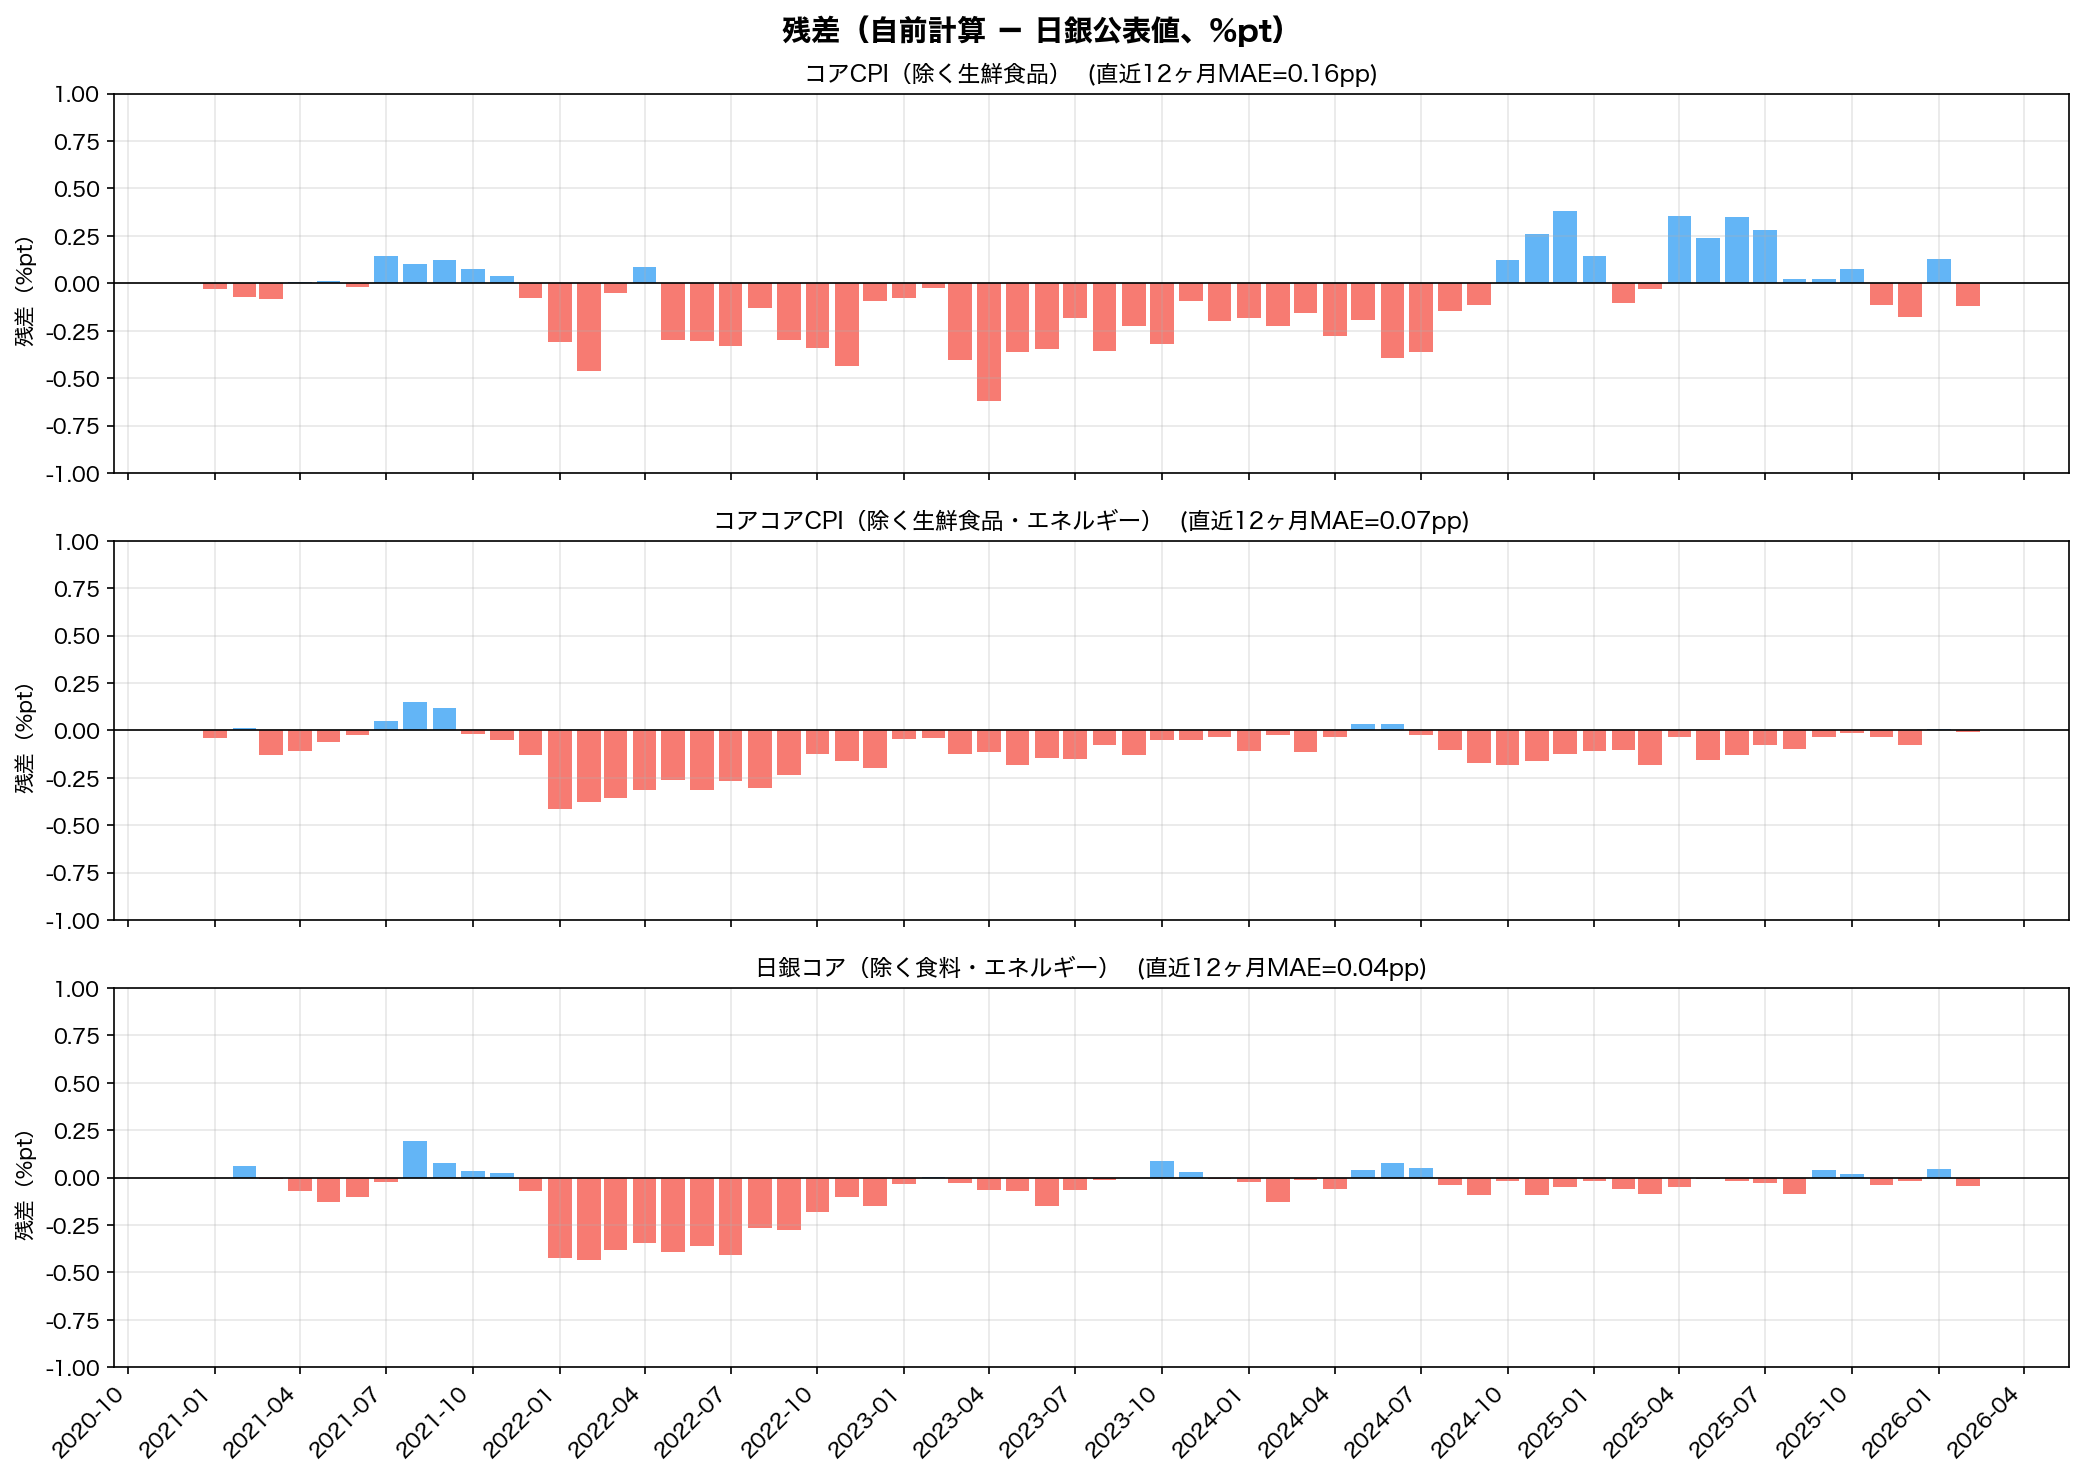
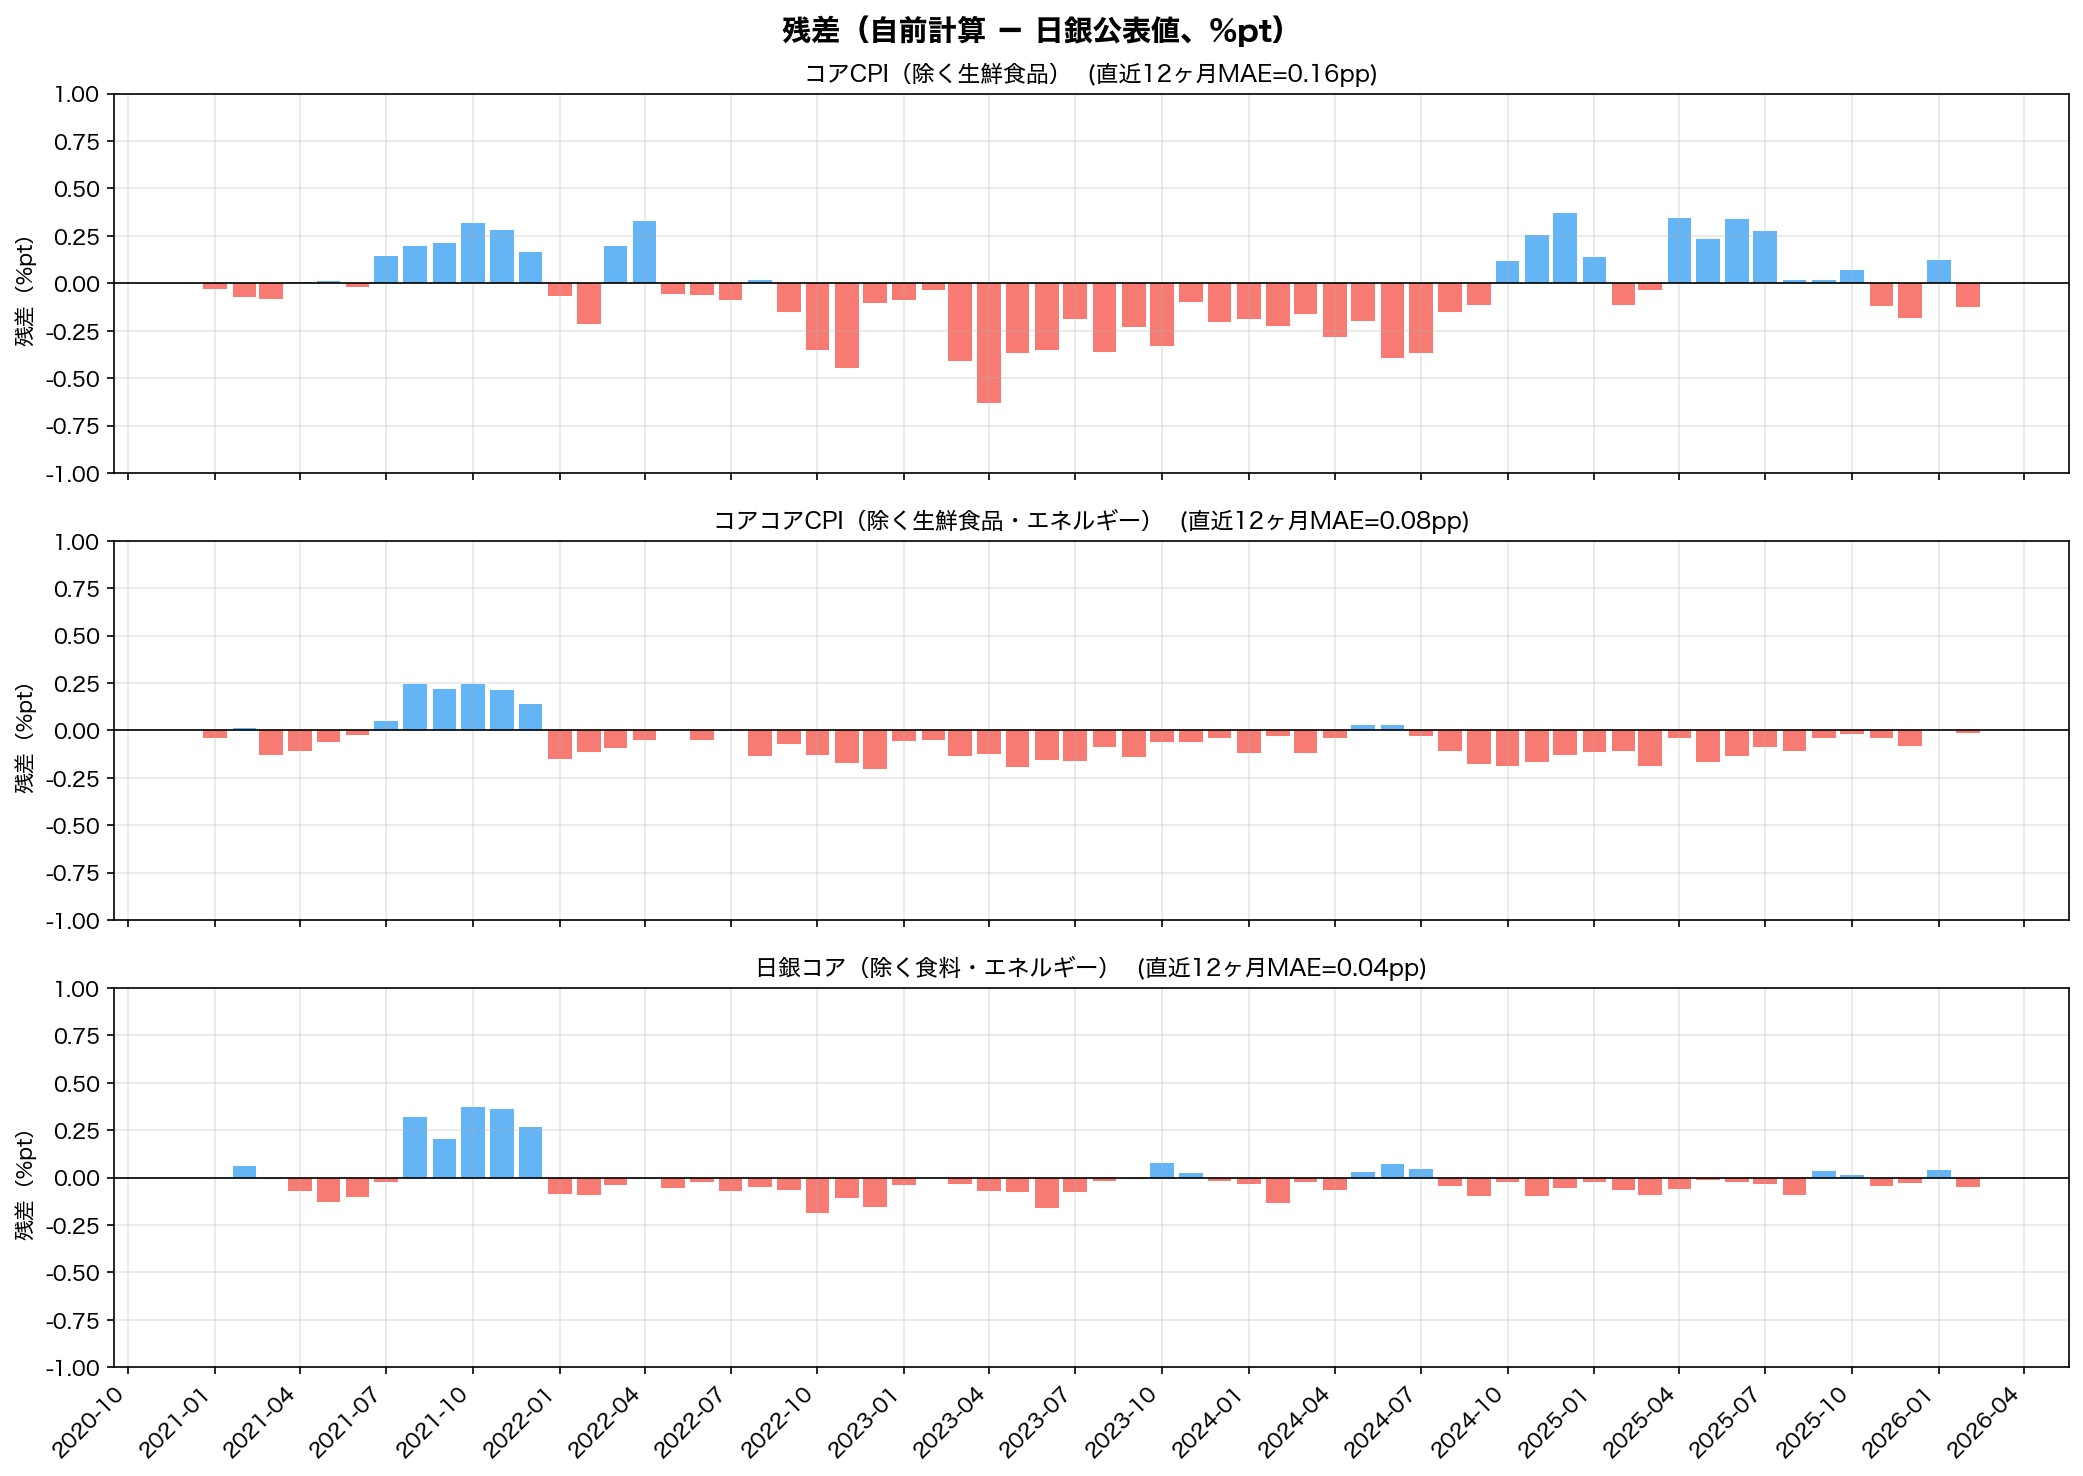
携帯通信料を年度保合+固定段差方式に戻す
60%反映方式は2021年改善/2022年悪化のトレードオフがあり、
全期MAEでは年度保合+固定段差が最良。
日銀は前年比ベースで寄与度差引の可能性があり、
指数水準ベースでの完全一致には構造的限界がある。

Changed region(s): [[0.1872, 0.748, 0.4057, 0.8726], [0.1872, 0.1558, 0.4057, 0.2493], [0.1872, 0.4675, 0.4057, 0.561]]

diff --git a/src/adjust_interpolation.py b/src/adjust_interpolation.py
@@ -22,35 +22,34 @@ import pandas as pd
 
 
 def adjust_mobile(cpi_index: pd.Series) -> pd.Series:
-    """携帯通信料の調整（保合＋60%反映＋固定段差方式）
+    """携帯通信料の調整（年度保合＋固定段差方式）
 
     1. 急落前（〜2021-03）: 実績値そのまま
-    2. 2021-04: 急落前水準で保合
-    3. 2021-05〜2022-03: 実績の月次変動の60%を反映
-       （残り40%は自然な市場競争として許容）
-    4. 2022-04以降: 実績の月次変動を100%反映（固定段差）
+    2. 急落年度（2021-04〜2022-03）: 急落前水準で保合
+    3. 2022-04以降: 固定段差を加算
+       step = 2021-03の水準 - 2022-03の水準（年度末時点の段差）
+       adjusted[t] = actual[t] + step
+
+    日銀は前年比ベースで寄与度を差し引く方式の可能性があり、
+    指数水準ベースの調整では2021-2022年の完全一致は困難。
     """
     adjusted = cpi_index.copy()
-    all_months = list(cpi_index.index)
 
     start_ym = "2021-03"
-    fy21_end = "2022-03"
-    if start_ym not in all_months:
+    end_ym = "2022-03"
+    if start_ym not in cpi_index.index or end_ym not in cpi_index.index:
         return adjusted
 
-    i_start = all_months.index(start_ym)
     val_pre = cpi_index[start_ym]
+    step = val_pre - cpi_index[end_ym]
 
-    # 2021-04: 保合
-    adjusted.iloc[i_start + 1] = val_pre
-
-    # 2021-05以降
-    for i in range(i_start + 2, len(all_months)):
-        change = cpi_index.iloc[i] - cpi_index.iloc[i - 1]
-        if all_months[i] <= fy21_end:
-            adjusted.iloc[i] = adjusted.iloc[i - 1] + change * 0.6
+    for ym in adjusted.index:
+        if ym <= start_ym:
+            pass
+        elif ym <= end_ym:
+            adjusted[ym] = val_pre
         else:
-            adjusted.iloc[i] = adjusted.iloc[i - 1] + change * 1.0
+            adjusted[ym] = cpi_index[ym] + step
 
     return adjusted
 
